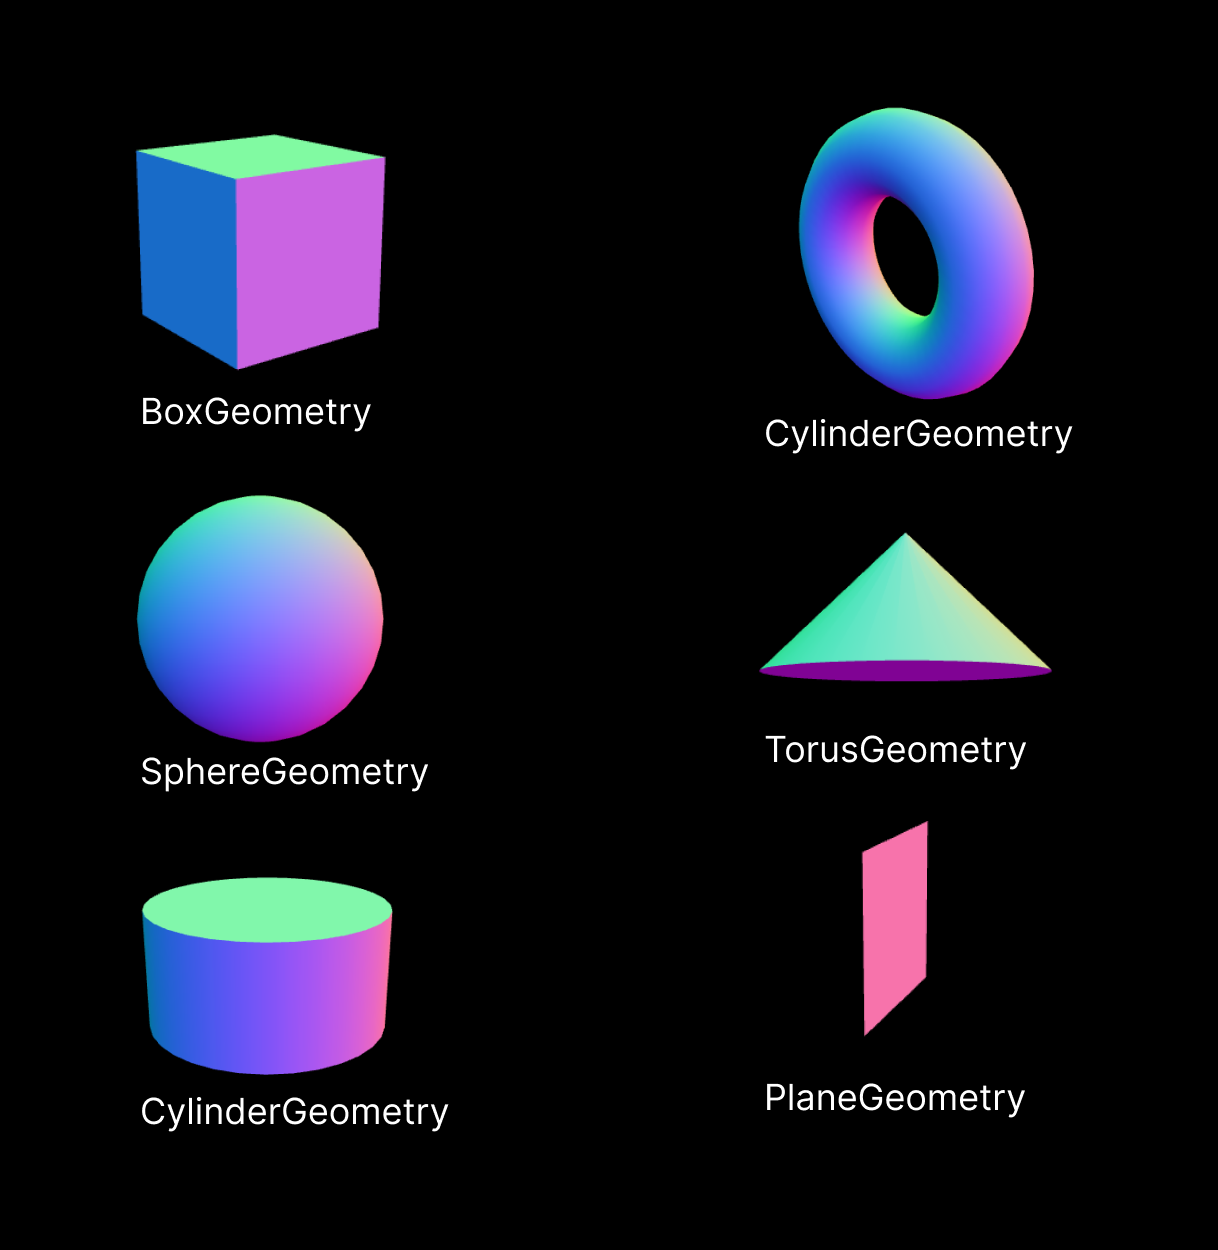
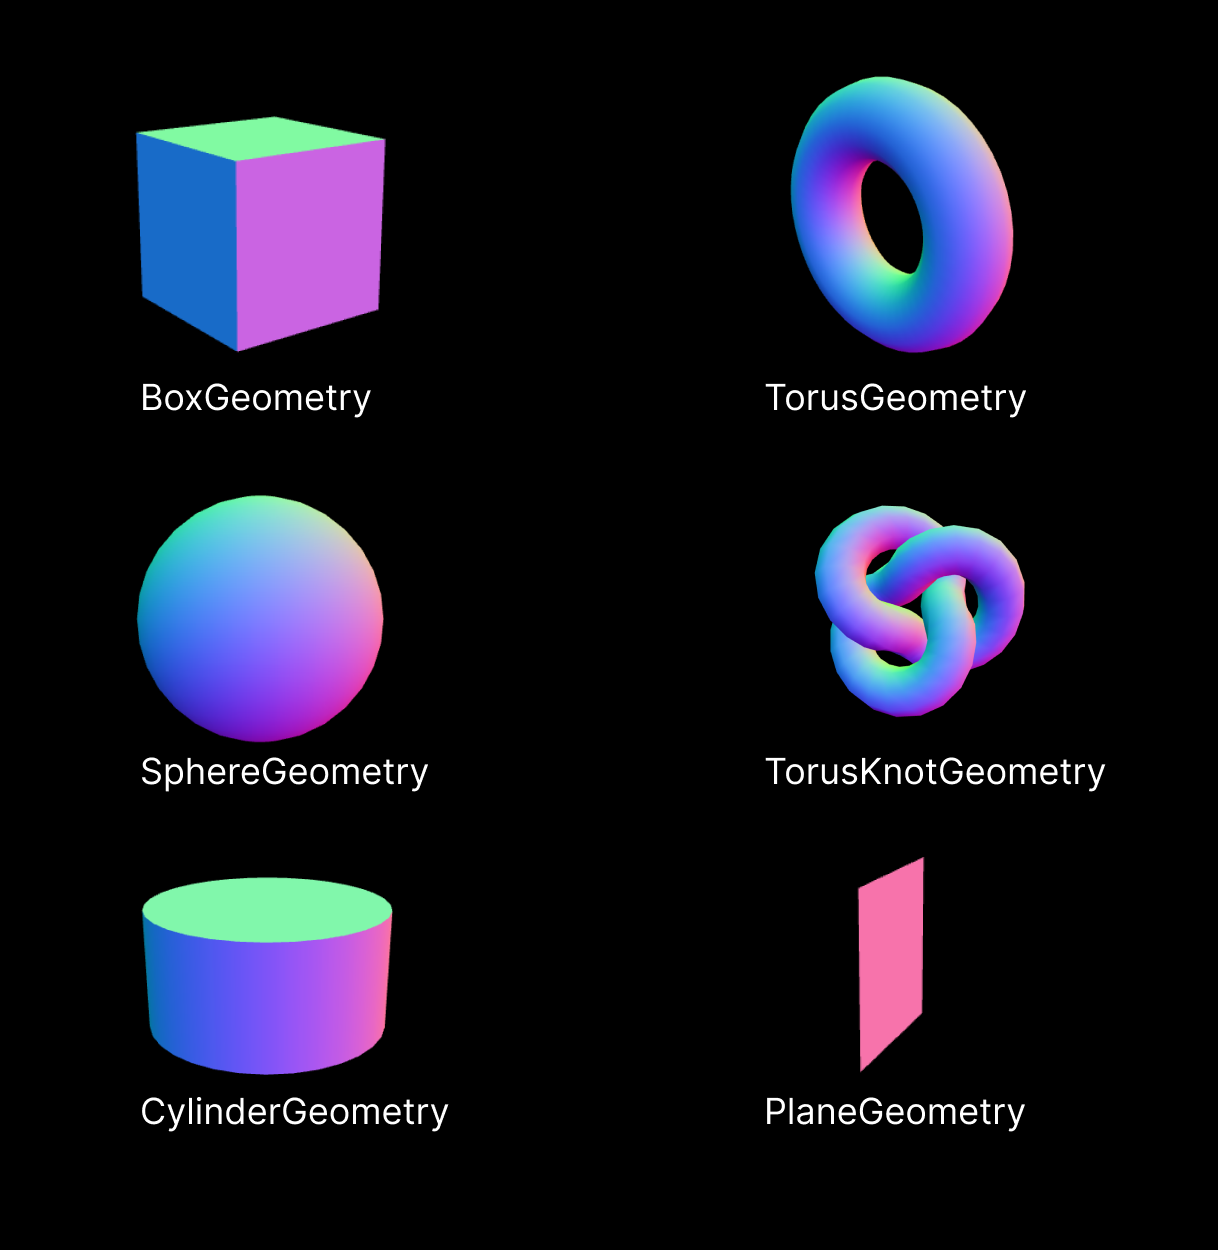
WIP - feat: Update demo material with torus knot geometry and standard material

diff --git a/2025-06-25/demo/src/routes/demo/material.tsx b/2025-06-25/demo/src/routes/demo/material.tsx
@@ -1,23 +1,34 @@
-import { OrbitControls, PerspectiveCamera } from '@react-three/drei'
-import { Canvas } from '@react-three/fiber'
-import { createFileRoute } from '@tanstack/react-router'
+import { OrbitControls, PerspectiveCamera, SpotLight } from "@react-three/drei";
+import { Canvas } from "@react-three/fiber";
+import { createFileRoute } from "@tanstack/react-router";
 
-export const Route = createFileRoute('/demo/material')({
+export const Route = createFileRoute("/demo/material")({
   component: RouteComponent,
-})
+});
 
 function RouteComponent() {
   return (
-    <div className='bg-black size-screen h-screen'>
-    <Canvas>
-      <PerspectiveCamera/>
-      <OrbitControls/>
-      <ambientLight />
-      <mesh>
-        <boxGeometry  />
-        <meshNormalMaterial  />
-      </mesh>
-    </Canvas>
+    <div className="bg-black size-screen h-screen">
+      <Canvas>
+        <PerspectiveCamera />
+        <OrbitControls />
+
+        <directionalLight />
+{/*<ambientLight />*/}
+
+
+        <mesh>
+         <torusKnotGeometry />
+      {/*<meshNormalMaterial />*/}
+          {/*<meshBasicMaterial color="#5DDCB9" />*/}
+          {/*<meshMatcapMaterial color="#5DDCB9" />*/}
+         {/*<meshLambertMaterial color="#5DDCB9" />*/}
+         {/* <meshToonMaterial color="#5DDCB9" />*/}
+          <meshStandardMaterial color="#5DDCB9" />
+        </mesh>
+
+
+      </Canvas>
     </div>
-  )
+  );
 }

diff --git a/2025-06-25/src/slides.md b/2025-06-25/src/slides.md
@@ -169,12 +169,11 @@ Material
 
 ---
 title: Three.js Geometries
+layout: image
+image: /geometries-demo.png
+backgroundSize: contain
 ---
 # Geometries
-
-<div class="flex justify-center">
-<img src="/geometries-demo.png" class="h-120"/>
-</div> 
 
 ---
 hide: true
@@ -208,7 +207,7 @@ Sphere
 
 
 ---
-hidd: true
+hide: true
 title: Three.js Geometries vs Material
 layout: image
 image: /material-geometry.png
@@ -217,6 +216,14 @@ backgroundSize: contain
 <v-drag text-6xl pos="444,200,150,250">
 Geometry
 </v-drag>
+
+---
+title: Three.js Materials
+layout: image
+image: /materials-demo.png
+backgroundSize: contain
+---
+# Materials
 
 ---
 title: UV Map
@@ -229,6 +236,7 @@ UV Map
 </v-drag>
 
 ---
+hide: true
 title: Three.js Geometries
 layout: image
 image: /three.js geometries.png
@@ -237,6 +245,7 @@ class: mix-blend-screen hue-rotate-180 contrast-180
 ---
 
 ---
+hide: true
 title: Three.js Materials
 layout: image
 image: /three.js materials.png
